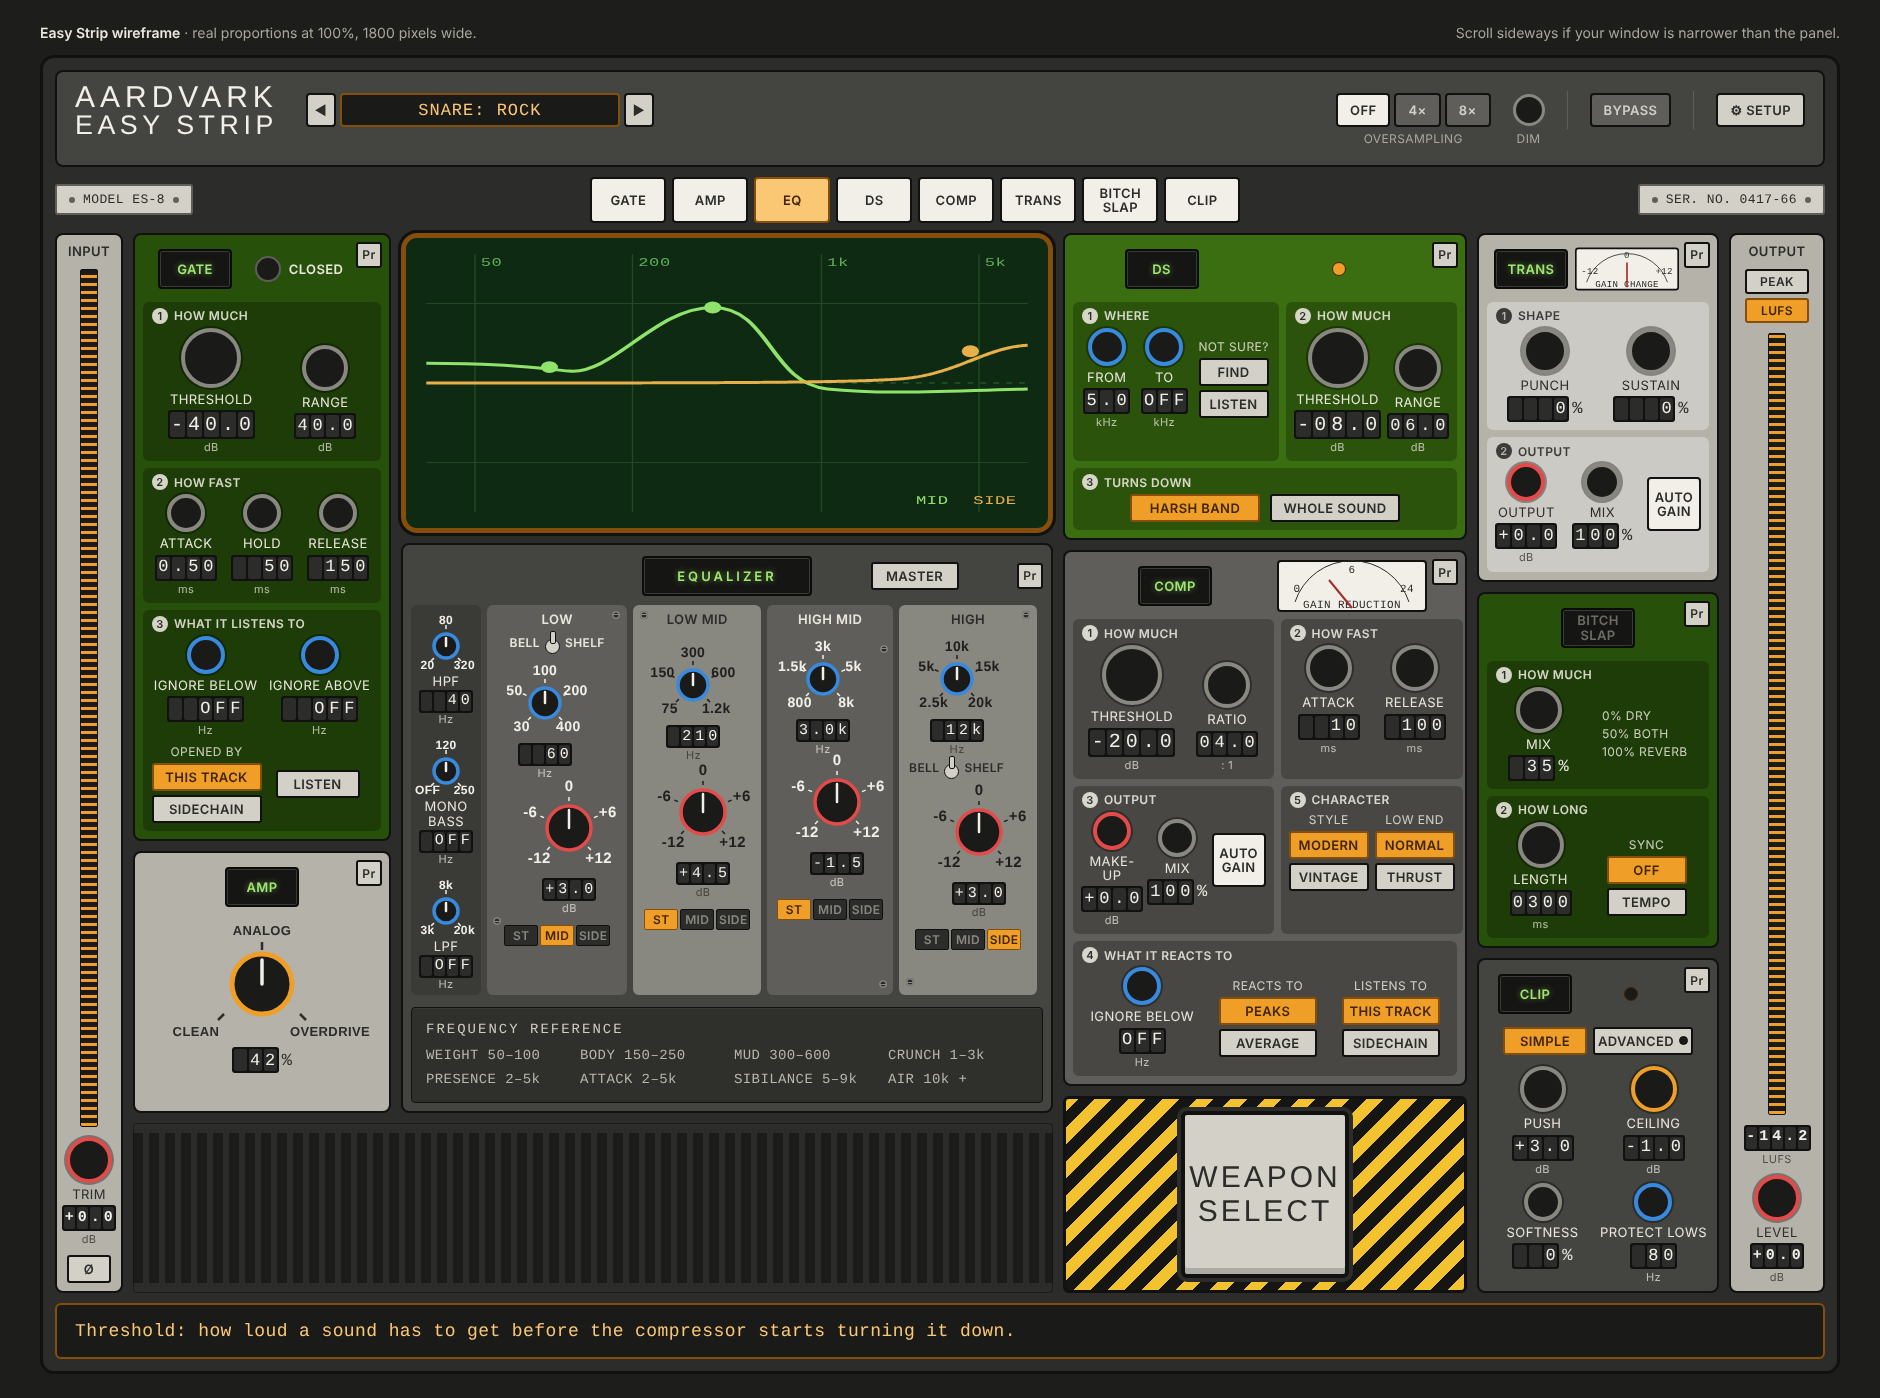
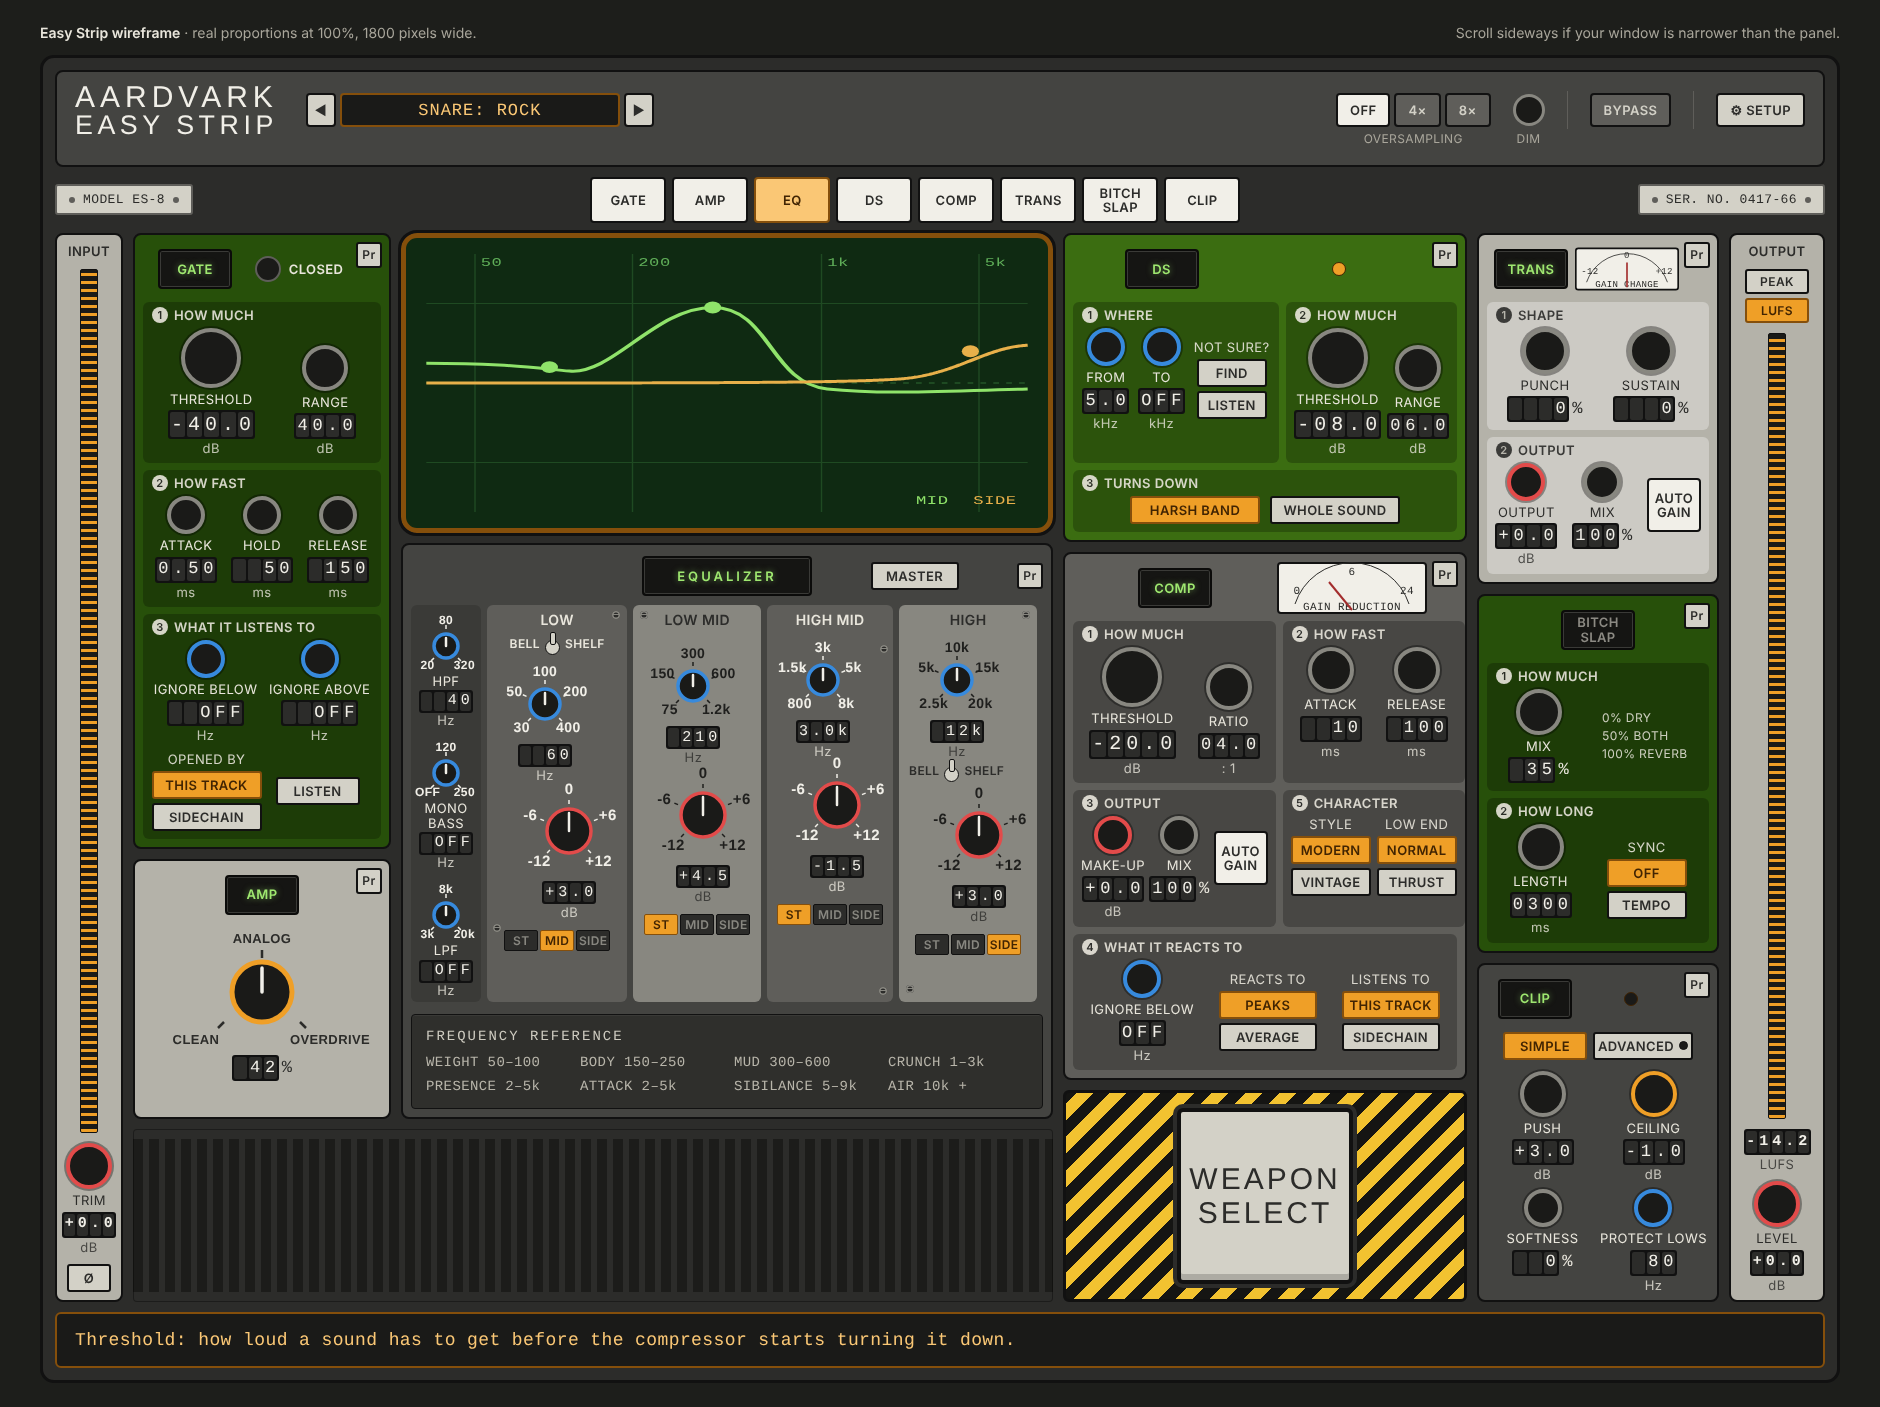
DevTools: staggered slab edges are deliberate; bigger small text [skip ci]
Claude-Session: https://claude.ai/code/session_01KRn7UbAFWVf9LHLqhN9U6j

diff --git a/DevTools/Look/Strip/strip_wireframe_full_size.html b/DevTools/Look/Strip/strip_wireframe_full_size.html
@@ -46,11 +46,11 @@ body{background:var(--page);color:var(--ink);font-family:var(--label);margin:0;p
 .tp.wide{grid-template-columns:1fr auto}
 .tp.solo{grid-template-columns:1fr;padding-left:30px}
 .pb{justify-self:center;min-width:74px;height:40px;padding:0 8px;box-sizing:border-box;display:flex;flex-direction:column;align-items:center;justify-content:center;line-height:1.1;background:#151513;color:#9fe870;text-shadow:0 0 6px rgba(159,232,112,.55);border:2px solid #0b0b0a;box-shadow:inset 0 0 0 1px #3a3a37;border-radius:4px;font-weight:600}
-.pb.off{color:#6e6c66;text-shadow:none}
+.pb.off{color:#8c8a83;text-shadow:none}
 .pr{position:absolute;top:7px;right:7px;width:26px;height:26px;box-sizing:border-box;display:flex;align-items:center;justify-content:center;background:var(--face);color:#2c2c2a;border:2px solid #111;border-radius:3px;font-weight:600;font-size:12px}
 .sec{position:relative;border-radius:6px;padding:26px 8px 8px;background:rgba(0,0,0,.24)}
 .c-sand .sec{background:rgba(255,255,255,.32)}
-.hd{position:absolute;top:6px;left:9px;font-weight:600;font-size:12px;display:flex;align-items:center;gap:6px;opacity:.9}
+.hd{position:absolute;top:5px;left:9px;font-weight:600;font-size:13px;display:flex;align-items:center;gap:6px;opacity:.9}
 .hd em{font-style:normal;width:16px;height:16px;border-radius:50%;display:inline-flex;align-items:center;justify-content:center;background:currentColor}
 .hd em span{color:var(--case);font-size:11px}
 .c-sand .hd em span{color:var(--sand)}
@@ -63,13 +63,13 @@ body{background:var(--page);color:var(--ink);font-family:var(--label);margin:0;p
 .cn{display:inline-flex;gap:2px;background:#111;padding:2px;border-radius:3px}
 .cn b{background:var(--drum);color:#f1efe8;font-family:var(--mono);font-weight:500;width:13px;height:22px;font-size:17px;display:flex;align-items:center;justify-content:center;border-radius:2px;font-variant-numeric:tabular-nums}
 .L .cn b{width:15px;height:25px;font-size:20px}
-.u{font-size:11px;opacity:.75;margin-top:-2px}
+.u{font-size:13px;opacity:.8;margin-top:-2px}
 .pc{display:inline-flex;align-items:center;gap:3px}
 .pc em{font-style:normal;font-family:var(--mono);font-size:17px;font-weight:500}
 .bt{box-sizing:border-box;text-align:center;padding:4px 0;border-radius:3px;background:var(--face);color:#2c2c2a;border:2px solid #111;font-weight:600;width:98px}
 .bt.lit{background:var(--amber);border-color:#854f0b;color:#412402}
 .pair{display:flex;flex-direction:column;align-items:center;gap:4px}
-.pair .lb{font-size:12px;opacity:.85}
+.pair .lb{font-size:13px;opacity:.9}
 .sq{width:54px;height:54px;box-sizing:border-box;display:flex;flex-direction:column;align-items:center;justify-content:center;line-height:1.1;border-radius:4px;background:#f1efe8;color:#2c2c2a;border:2px solid #111;font-weight:600}
 .stretch{align-self:stretch;margin-top:-18px;display:flex;align-items:center}
 .lamp{display:flex;align-items:center;gap:8px;justify-self:center;font-weight:600}
@@ -96,7 +96,7 @@ body{background:var(--page);color:var(--ink);font-family:var(--label);margin:0;p
 .eqgrid{display:grid;grid-template-columns:70px 1.1fr 1fr .96fr 1.08fr 0px;gap:6px}
 .eb{position:relative;border-radius:6px;padding:6px 2px 10px;display:flex;flex-direction:column;align-items:center;justify-content:flex-start}
 .eb.dk{background:var(--gun);--ink:#f1efe8}.eb.lt{background:#888780;color:#2c2c2a;--ink:#1f1f1d}
-.eb .nm{font-weight:600;font-size:13px}
+.eb .nm{font-weight:600;font-size:14px}
 .kb{display:flex;flex-direction:column;align-items:center;gap:2px}
 .es{display:flex;flex-direction:column;align-items:center;justify-content:flex-start;gap:10px;padding:5px 0;background:#3a3a37;border-radius:6px;--ink:#f1efe8;text-align:center;line-height:1.1}
 .tgt{display:flex;gap:2px;margin-top:8px}.tgt span{width:32px;text-align:center;padding:2px 0;border-radius:2px;background:#2c2c2a;color:#888780;border:1.5px solid #111;font-weight:600;font-size:12px}
@@ -216,7 +216,7 @@ body{background:var(--page);color:var(--ink);font-family:var(--label);margin:0;p
       <div style="display:grid;grid-template-columns:1fr 1fr;gap:7px">
         <div class="sec"><div class="hd"><em><span>1</span></em>HOW MUCH</div><div class="rw"><div class="k L"><i></i>THRESHOLD<span class="cn">-20.0</span><span class="u">dB</span></div><div class="k M"><i></i>RATIO<span class="cn">04.0</span><span class="u">: 1</span></div></div></div>
         <div class="sec"><div class="hd"><em><span>2</span></em>HOW FAST</div><div class="rw"><div class="k M"><i></i>ATTACK<span class="cn">  10</span><span class="u">ms</span></div><div class="k M"><i></i>RELEASE<span class="cn"> 100</span><span class="u">ms</span></div></div></div>
-        <div class="sec g3" style="grid-template-columns:1fr 1.3fr auto;column-gap:4px"><div class="hd"><em><span>3</span></em>OUTPUT</div><div class="k S r"><i></i>MAKE-UP<span class="cn">+0.0</span><span class="u">dB</span></div><div class="k S"><i></i>MIX<span class="pc"><span class="cn">100</span><em>%</em></span><span class="u">&nbsp;</span></div><div class="stretch"><div class="sq"><span>AUTO</span><span>GAIN</span></div></div></div>
+        <div class="sec g3" style="grid-template-columns:1fr 1.3fr auto;column-gap:4px"><div class="hd"><em><span>3</span></em>OUTPUT</div><div class="k S r" style="white-space:nowrap"><i></i>MAKE-UP<span class="cn">+0.0</span><span class="u">dB</span></div><div class="k S"><i></i>MIX<span class="pc"><span class="cn">100</span><em>%</em></span><span class="u">&nbsp;</span></div><div class="stretch"><div class="sq"><span>AUTO</span><span>GAIN</span></div></div></div>
         <div class="sec"><div class="hd"><em><span>5</span></em>CHARACTER</div><div class="rw" style="align-items:flex-start"><div class="pair"><span class="lb">STYLE</span><div class="bt lit" style="width:80px">MODERN</div><div class="bt" style="width:80px">VINTAGE</div></div><div class="pair"><span class="lb">LOW END</span><div class="bt lit" style="width:80px">NORMAL</div><div class="bt" style="width:80px">THRUST</div></div></div></div>
       </div>
       <div class="sec"><div class="hd"><em><span>4</span></em>WHAT IT REACTS TO</div><div class="rw" style="align-items:center"><div class="k S b"><i></i>IGNORE BELOW<span class="cn">OFF</span><span class="u">Hz</span></div><div class="pair"><span class="lb">REACTS TO</span><div class="bt lit">PEAKS</div><div class="bt">AVERAGE</div></div><div class="pair"><span class="lb">LISTENS TO</span><div class="bt lit">THIS TRACK</div><div class="bt">SIDECHAIN</div></div></div></div>
